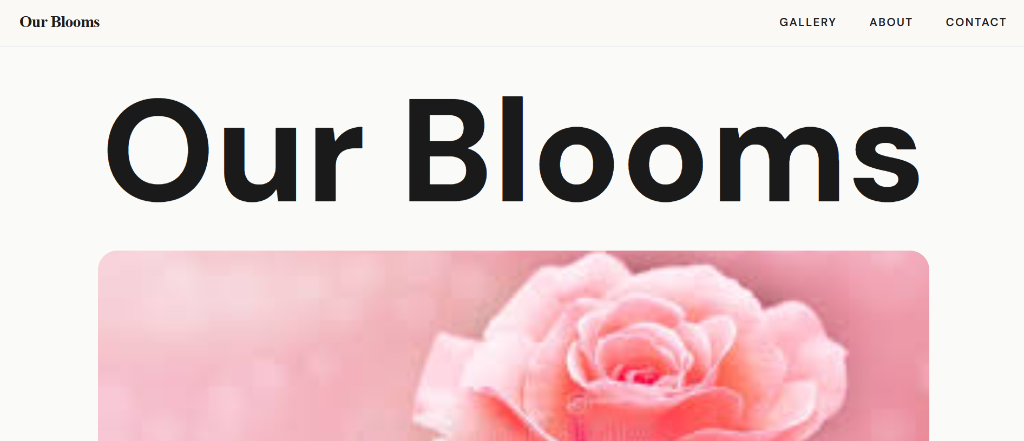
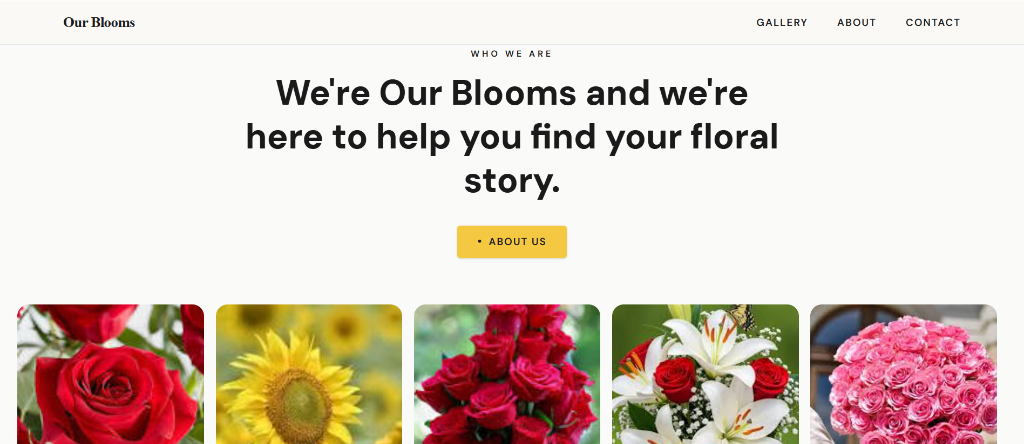
add more project data

diff --git a/src/data/portfolioData.ts b/src/data/portfolioData.ts
@@ -88,30 +88,50 @@ export const skillCategories: SkillCategory[] = [
 
 export const projects: Project[] = [
   {
-    id: "dashboard-project",
-    title: "Project Workspace Kanban",
-    description: "An interactive project management interface modeled after task boards, supporting drag-and-drop workspace cards and status sorting.",
-    tags: ["Kanban", "Workspace", "Productivity"],
-    tech: ["React", "JavaScript", "TailwindCSS", "Framer Motion"],
-    link: "dashboard-one-dusky-one.vercel.app",
-    github: "https://github.com/uswa768/Dashboard-One",
-    color: "#8b5cf6",
-  },
-  {
     id: "crm-portal",
     title: "CRM SaaS",
     description: "A modern, high-performance CRM SaaS platform with comprehensive customer relationship management, task scaling, and real-time WebSocket integration for seamless team collaboration.",
-    tags: ["Engineering", "CRM Portal", "WebSockets"],
+    tags: ["Internship Project", "Engineering", "CRM Portal"],
     tech: ["React", "JavaScript", "TailwindCSS", "GSAP", "Framer Motion"],
     link: "https://crm-saas-flame.vercel.app/",
     github: "https://github.com/raheelanjum786/crm-saas",
     color: "#10b981",
   },
   {
+    id: "dashboard-project",
+    title: "Project Workspace Kanban",
+    description: "An interactive project management interface modeled after task boards, supporting drag-and-drop workspace cards and status sorting.",
+    tags: ["Practice Project", "Kanban", "Workspace"],
+    tech: ["React", "JavaScript", "TailwindCSS", "Framer Motion"],
+    link: "dashboard-one-dusky-one.vercel.app",
+    github: "https://github.com/uswa768/Dashboard-One",
+    color: "#8b5cf6",
+  },
+  {
+    id: "our-blooms",
+    title: "Our Blooms",
+    description: "A beautiful floral boutique website showcasing curated collections of flowers, custom customer stories, and responsive navigation paths.",
+    tags: ["Practice Project", "Boutique", "Landing Page"],
+    tech: ["HTML5", "CSS3", "JavaScript"],
+    link: "https://our-blooms-bupr.vercel.app/",
+    github: "https://github.com/uswa768/Our-Blooms",
+    color: "#ec4899",
+  },
+  {
+    id: "doist-todo",
+    title: "Doist Tasks Dashboard",
+    description: "A sleek task management dashboard featuring daily productivity logging, status categorized list boards, and responsive sidebar navigation.",
+    tags: ["Practice Project", "Todo App", "Dashboard"],
+    tech: ["React", "JavaScript", "TailwindCSS", "Framer Motion"],
+    link: "https://todo-app-self-tau-96.vercel.app/",
+    github: "https://github.com/uswa768/todo-app",
+    color: "#6366f1",
+  },
+  {
     id: "dashboard-sales",
     title: "Sales Analytics Dashboard",
     description: "A premium dark-themed sales monitoring dashboard displaying dynamic metrics, product popularity rankings, and graphical customer statistics.",
-    tags: ["Data Vis", "Dashboard", "Admin Panel"],
+    tags: ["Practice Project", "Data Vis", "Dashboard"],
     tech: ["React", "JavaScript", "TailwindCSS", "ChartJS"],
     link: "dashboard-two-nine.vercel.app",
     github: "https://github.com/uswa768/dashboard-two",

diff --git a/src/components/TechSection3D.tsx b/src/components/TechSection3D.tsx
@@ -70,13 +70,13 @@ export const TechSection3D: React.FC = () => {
           gsap.set(card, { opacity: 0, scale: 0.1 });
         });
 
-        // Create scroll-linked timeline
+        // Create scroll-linked timeline (higher scrub = smoother follow lag)
         const tl = gsap.timeline({
           scrollTrigger: {
             trigger: ".tech-content-row",
             start: "top 85%",
             end: "bottom 30%",
-            scrub: 1.2,
+            scrub: 2.2,
           }
         });
 
@@ -85,15 +85,15 @@ export const TechSection3D: React.FC = () => {
           opacity: 1,
           scale: 1.6,
           duration: 1.0,
-          ease: "power1.inOut",
+          ease: "power2.inOut",
         })
         .to(sceneCol, {
           scale: 1.0,
           duration: 1.0,
-          ease: "power1.inOut",
+          ease: "power2.inOut",
         });
 
-        // Language cards fly out from the center of the robot to their native grid positions
+        // Language cards fly out from the center of the robot to their native grid positions (faster duration and stagger)
         cardOffsets.forEach(({ card, dx, dy }, idx) => {
           tl.fromTo(card,
             {
@@ -110,9 +110,9 @@ export const TechSection3D: React.FC = () => {
               y: 0,
               rotation: 0,
               ease: "power2.out",
-              duration: 1.2,
+              duration: 0.6,
             },
-            idx * 0.1
+            idx * 0.04
           );
         });
       });
@@ -160,9 +160,9 @@ export const TechSection3D: React.FC = () => {
                   x: 0,
                   y: 0,
                   rotation: 0,
-                  duration: 1.3,
-                  delay: idx * 0.08,
-                  ease: "power3.out",
+                  duration: 0.7,
+                  delay: idx * 0.04,
+                  ease: "power2.out",
                   clearProps: "all"
                 }
               );

diff --git a/src/components/Work.tsx b/src/components/Work.tsx
@@ -15,6 +15,10 @@ const getProjectImage = (id: string) => {
       return "/dashboard_project.png";
     case "crm-portal":
       return "/crm_portal.png";
+    case "our-blooms":
+      return "/our_blooms.png";
+    case "doist-todo":
+      return "/doist_todo.png";
     default:
       return "/dashboard_sales.png";
   }